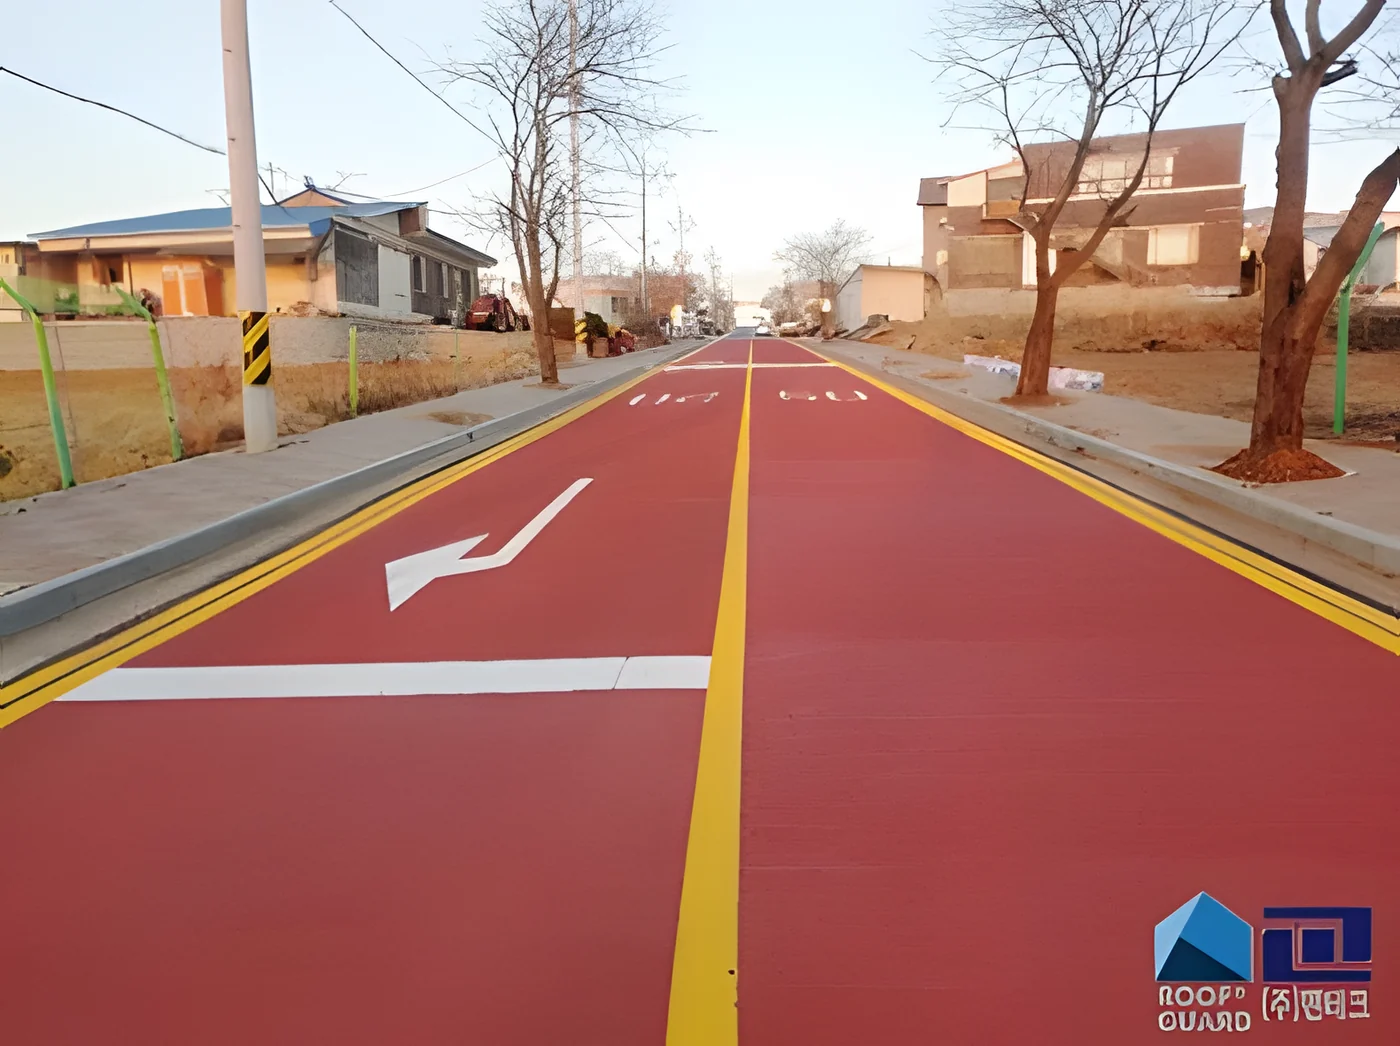
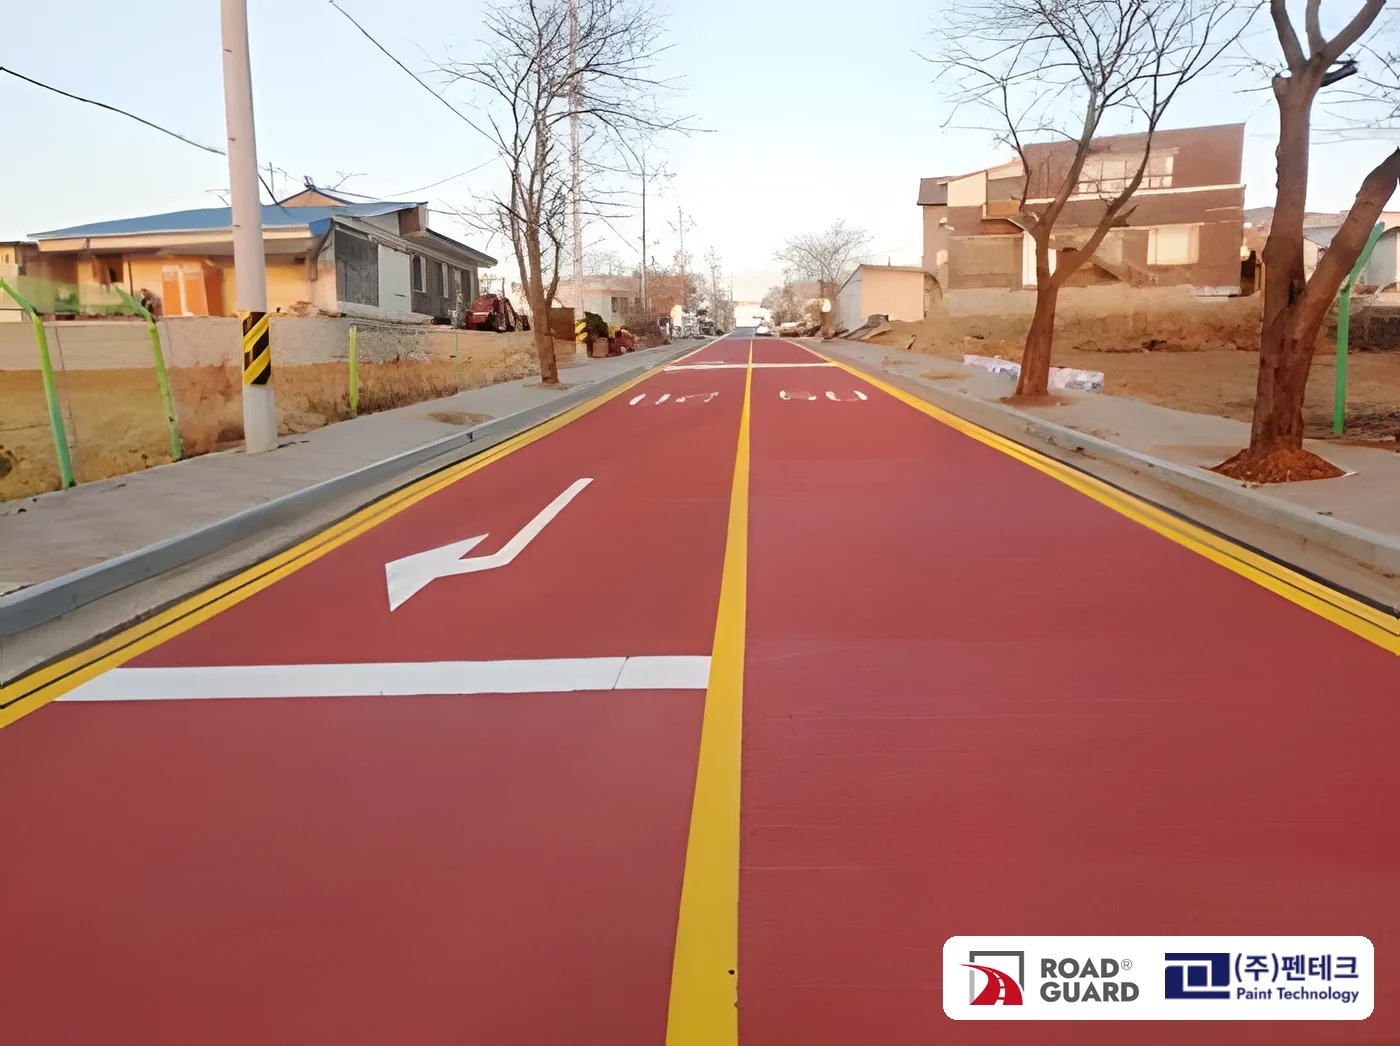
펜테크 리디자인 시안: 로드가드 시공 도로 사진의 옛 워터마크를 지우고 ROAD GUARD · (주)펜테크 로고로 교체, 사진 캐시 표시 갱신

Changed region(s): [[0.6757, 0.8566, 0.9829, 1.0]]

diff --git a/projects/pentech/tech.html b/projects/pentech/tech.html
@@ -6,17 +6,17 @@
 <title>기술공법 — (주)펜테크 | 리디자인 시안</title>
 <link rel="preconnect" href="https://cdn.jsdelivr.net" crossorigin>
 <link rel="stylesheet" href="https://cdn.jsdelivr.net/gh/orioncactus/pretendard@v1.3.9/dist/web/variable/pretendardvariable-dynamic-subset.min.css">
-<link rel="stylesheet" href="css/style.css?v=20261121-113">
+<link rel="stylesheet" href="css/style.css?v=20261121-114">
 </head>
 <body data-page="tech">
 <!-- 공법 5종이 이 한 장을 같이 쓴다: tech.html?id=roof | wall | penter | road | poly -->
 <main id="tech"></main>
 
-<script src="js/data.js?v=20261121-113"></script>
-<script src="js/hd-images.js?v=20261121-113"></script>
-<script src="js/common.js?v=20261121-113"></script>
-<script src="js/tech.js?v=20261121-113"></script>
-<script src="js/i18n-dict.js?v=20261121-113"></script>
-<script src="js/i18n.js?v=20261121-113"></script>
+<script src="js/data.js?v=20261121-114"></script>
+<script src="js/hd-images.js?v=20261121-114"></script>
+<script src="js/common.js?v=20261121-114"></script>
+<script src="js/tech.js?v=20261121-114"></script>
+<script src="js/i18n-dict.js?v=20261121-114"></script>
+<script src="js/i18n.js?v=20261121-114"></script>
 </body>
 </html>

diff --git a/projects/pentech/index.html b/projects/pentech/index.html
@@ -7,7 +7,7 @@
 <meta name="description" content="지붕부터 외벽, 바닥, 지하주차장까지. 특허 방수 공법의 건설보수 전문 기업 펜테크 — 웹 수업 과제 리디자인 시안">
 <link rel="preconnect" href="https://cdn.jsdelivr.net" crossorigin>
 <link rel="stylesheet" href="https://cdn.jsdelivr.net/gh/orioncactus/pretendard@v1.3.9/dist/web/variable/pretendardvariable-dynamic-subset.min.css">
-<link rel="stylesheet" href="css/style.css?v=20261121-113">
+<link rel="stylesheet" href="css/style.css?v=20261121-114">
 </head>
 <body data-page="home">
 
@@ -172,10 +172,10 @@
   </section>
 </main>
 
-<script src="js/data.js?v=20261121-113"></script>
-<script src="js/common.js?v=20261121-113"></script>
-<script src="js/home.js?v=20261121-113"></script>
-<script src="js/i18n-dict.js?v=20261121-113"></script>
-<script src="js/i18n.js?v=20261121-113"></script>
+<script src="js/data.js?v=20261121-114"></script>
+<script src="js/common.js?v=20261121-114"></script>
+<script src="js/home.js?v=20261121-114"></script>
+<script src="js/i18n-dict.js?v=20261121-114"></script>
+<script src="js/i18n.js?v=20261121-114"></script>
 </body>
 </html>

diff --git a/projects/pentech/news-article.html b/projects/pentech/news-article.html
@@ -6,7 +6,7 @@
 <title>언론보도 — (주)펜테크 | 리디자인 시안</title>
 <link rel="preconnect" href="https://cdn.jsdelivr.net" crossorigin>
 <link rel="stylesheet" href="https://cdn.jsdelivr.net/gh/orioncactus/pretendard@v1.3.9/dist/web/variable/pretendardvariable-dynamic-subset.min.css">
-<link rel="stylesheet" href="css/style.css?v=20261121-113">
+<link rel="stylesheet" href="css/style.css?v=20261121-114">
 </head>
 <body data-page="news">
 <main>
@@ -23,11 +23,11 @@
   </section>
 </main>
 
-<script src="js/data.js?v=20261121-113"></script>
-<script src="js/news-data.js?v=20261121-113"></script>
-<script src="js/common.js?v=20261121-113"></script>
-<script src="js/pages.js?v=20261121-113"></script>
-<script src="js/i18n-dict.js?v=20261121-113"></script>
-<script src="js/i18n.js?v=20261121-113"></script>
+<script src="js/data.js?v=20261121-114"></script>
+<script src="js/news-data.js?v=20261121-114"></script>
+<script src="js/common.js?v=20261121-114"></script>
+<script src="js/pages.js?v=20261121-114"></script>
+<script src="js/i18n-dict.js?v=20261121-114"></script>
+<script src="js/i18n.js?v=20261121-114"></script>
 </body>
 </html>

diff --git a/projects/pentech/contact.html b/projects/pentech/contact.html
@@ -6,7 +6,7 @@
 <title>고객지원 — (주)펜테크 | 리디자인 시안</title>
 <link rel="preconnect" href="https://cdn.jsdelivr.net" crossorigin>
 <link rel="stylesheet" href="https://cdn.jsdelivr.net/gh/orioncactus/pretendard@v1.3.9/dist/web/variable/pretendardvariable-dynamic-subset.min.css">
-<link rel="stylesheet" href="css/style.css?v=20261121-113">
+<link rel="stylesheet" href="css/style.css?v=20261121-114">
 </head>
 <body data-page="contact">
 <main>
@@ -121,10 +121,10 @@
   </section>
 </main>
 
-<script src="js/data.js?v=20261121-113"></script>
-<script src="js/common.js?v=20261121-113"></script>
-<script src="js/pages.js?v=20261121-113"></script>
-<script src="js/i18n-dict.js?v=20261121-113"></script>
-<script src="js/i18n.js?v=20261121-113"></script>
+<script src="js/data.js?v=20261121-114"></script>
+<script src="js/common.js?v=20261121-114"></script>
+<script src="js/pages.js?v=20261121-114"></script>
+<script src="js/i18n-dict.js?v=20261121-114"></script>
+<script src="js/i18n.js?v=20261121-114"></script>
 </body>
 </html>

diff --git a/projects/pentech/about.html b/projects/pentech/about.html
@@ -6,7 +6,7 @@
 <title>회사소개 — (주)펜테크 | 리디자인 시안</title>
 <link rel="preconnect" href="https://cdn.jsdelivr.net" crossorigin>
 <link rel="stylesheet" href="https://cdn.jsdelivr.net/gh/orioncactus/pretendard@v1.3.9/dist/web/variable/pretendardvariable-dynamic-subset.min.css">
-<link rel="stylesheet" href="css/style.css?v=20261121-113">
+<link rel="stylesheet" href="css/style.css?v=20261121-114">
 </head>
 <body data-page="about">
 <main>
@@ -151,10 +151,10 @@
   </section>
 </main>
 
-<script src="js/data.js?v=20261121-113"></script>
-<script src="js/common.js?v=20261121-113"></script>
-<script src="js/pages.js?v=20261121-113"></script>
-<script src="js/i18n-dict.js?v=20261121-113"></script>
-<script src="js/i18n.js?v=20261121-113"></script>
+<script src="js/data.js?v=20261121-114"></script>
+<script src="js/common.js?v=20261121-114"></script>
+<script src="js/pages.js?v=20261121-114"></script>
+<script src="js/i18n-dict.js?v=20261121-114"></script>
+<script src="js/i18n.js?v=20261121-114"></script>
 </body>
 </html>

diff --git a/projects/pentech/partners.html b/projects/pentech/partners.html
@@ -6,7 +6,7 @@
 <title>협력기업 — (주)펜테크 | 리디자인 시안</title>
 <link rel="preconnect" href="https://cdn.jsdelivr.net" crossorigin>
 <link rel="stylesheet" href="https://cdn.jsdelivr.net/gh/orioncactus/pretendard@v1.3.9/dist/web/variable/pretendardvariable-dynamic-subset.min.css">
-<link rel="stylesheet" href="css/style.css?v=20261121-113">
+<link rel="stylesheet" href="css/style.css?v=20261121-114">
 </head>
 <body data-page="partner">
 <main>
@@ -54,10 +54,10 @@
   </section>
 </main>
 
-<script src="js/data.js?v=20261121-113"></script>
-<script src="js/common.js?v=20261121-113"></script>
-<script src="js/pages.js?v=20261121-113"></script>
-<script src="js/i18n-dict.js?v=20261121-113"></script>
-<script src="js/i18n.js?v=20261121-113"></script>
+<script src="js/data.js?v=20261121-114"></script>
+<script src="js/common.js?v=20261121-114"></script>
+<script src="js/pages.js?v=20261121-114"></script>
+<script src="js/i18n-dict.js?v=20261121-114"></script>
+<script src="js/i18n.js?v=20261121-114"></script>
 </body>
 </html>

diff --git a/projects/pentech/cases.html b/projects/pentech/cases.html
@@ -6,7 +6,7 @@
 <title>시공사례 — (주)펜테크 | 리디자인 시안</title>
 <link rel="preconnect" href="https://cdn.jsdelivr.net" crossorigin>
 <link rel="stylesheet" href="https://cdn.jsdelivr.net/gh/orioncactus/pretendard@v1.3.9/dist/web/variable/pretendardvariable-dynamic-subset.min.css">
-<link rel="stylesheet" href="css/style.css?v=20261121-113">
+<link rel="stylesheet" href="css/style.css?v=20261121-114">
 </head>
 <body data-page="cases">
 <main>
@@ -27,10 +27,10 @@
   </section>
 </main>
 
-<script src="js/data.js?v=20261121-113"></script>
-<script src="js/common.js?v=20261121-113"></script>
-<script src="js/pages.js?v=20261121-113"></script>
-<script src="js/i18n-dict.js?v=20261121-113"></script>
-<script src="js/i18n.js?v=20261121-113"></script>
+<script src="js/data.js?v=20261121-114"></script>
+<script src="js/common.js?v=20261121-114"></script>
+<script src="js/pages.js?v=20261121-114"></script>
+<script src="js/i18n-dict.js?v=20261121-114"></script>
+<script src="js/i18n.js?v=20261121-114"></script>
 </body>
 </html>

diff --git a/projects/pentech/news.html b/projects/pentech/news.html
@@ -6,7 +6,7 @@
 <title>소식 — (주)펜테크 | 리디자인 시안</title>
 <link rel="preconnect" href="https://cdn.jsdelivr.net" crossorigin>
 <link rel="stylesheet" href="https://cdn.jsdelivr.net/gh/orioncactus/pretendard@v1.3.9/dist/web/variable/pretendardvariable-dynamic-subset.min.css">
-<link rel="stylesheet" href="css/style.css?v=20261121-113">
+<link rel="stylesheet" href="css/style.css?v=20261121-114">
 </head>
 <body data-page="news">
 <main>
@@ -36,10 +36,10 @@
   </section>
 </main>
 
-<script src="js/data.js?v=20261121-113"></script>
-<script src="js/common.js?v=20261121-113"></script>
-<script src="js/pages.js?v=20261121-113"></script>
-<script src="js/i18n-dict.js?v=20261121-113"></script>
-<script src="js/i18n.js?v=20261121-113"></script>
+<script src="js/data.js?v=20261121-114"></script>
+<script src="js/common.js?v=20261121-114"></script>
+<script src="js/pages.js?v=20261121-114"></script>
+<script src="js/i18n-dict.js?v=20261121-114"></script>
+<script src="js/i18n.js?v=20261121-114"></script>
 </body>
 </html>

diff --git a/projects/pentech/js/common.js b/projects/pentech/js/common.js
@@ -125,7 +125,7 @@ function buildChrome() {
 function hd(u) {
   if (typeof IMG === 'undefined' || typeof HD_IMG === 'undefined' || !u || u.indexOf(IMG) !== 0) return u;
   var r = u.slice(IMG.length);
-  return HD_IMG[r] ? 'images/hd/' + r + '?v=2' : u;                  // ?v=2: 사진을 새로 만들었을 때 브라우저가 옛 사진을 쓰지 않게
+  return HD_IMG[r] ? 'images/hd/' + r + '?v=3' : u;                  // ?v=2: 사진을 새로 만들었을 때 브라우저가 옛 사진을 쓰지 않게
 }
 
 function ph(src, cap, group, extraClass, badge) {
